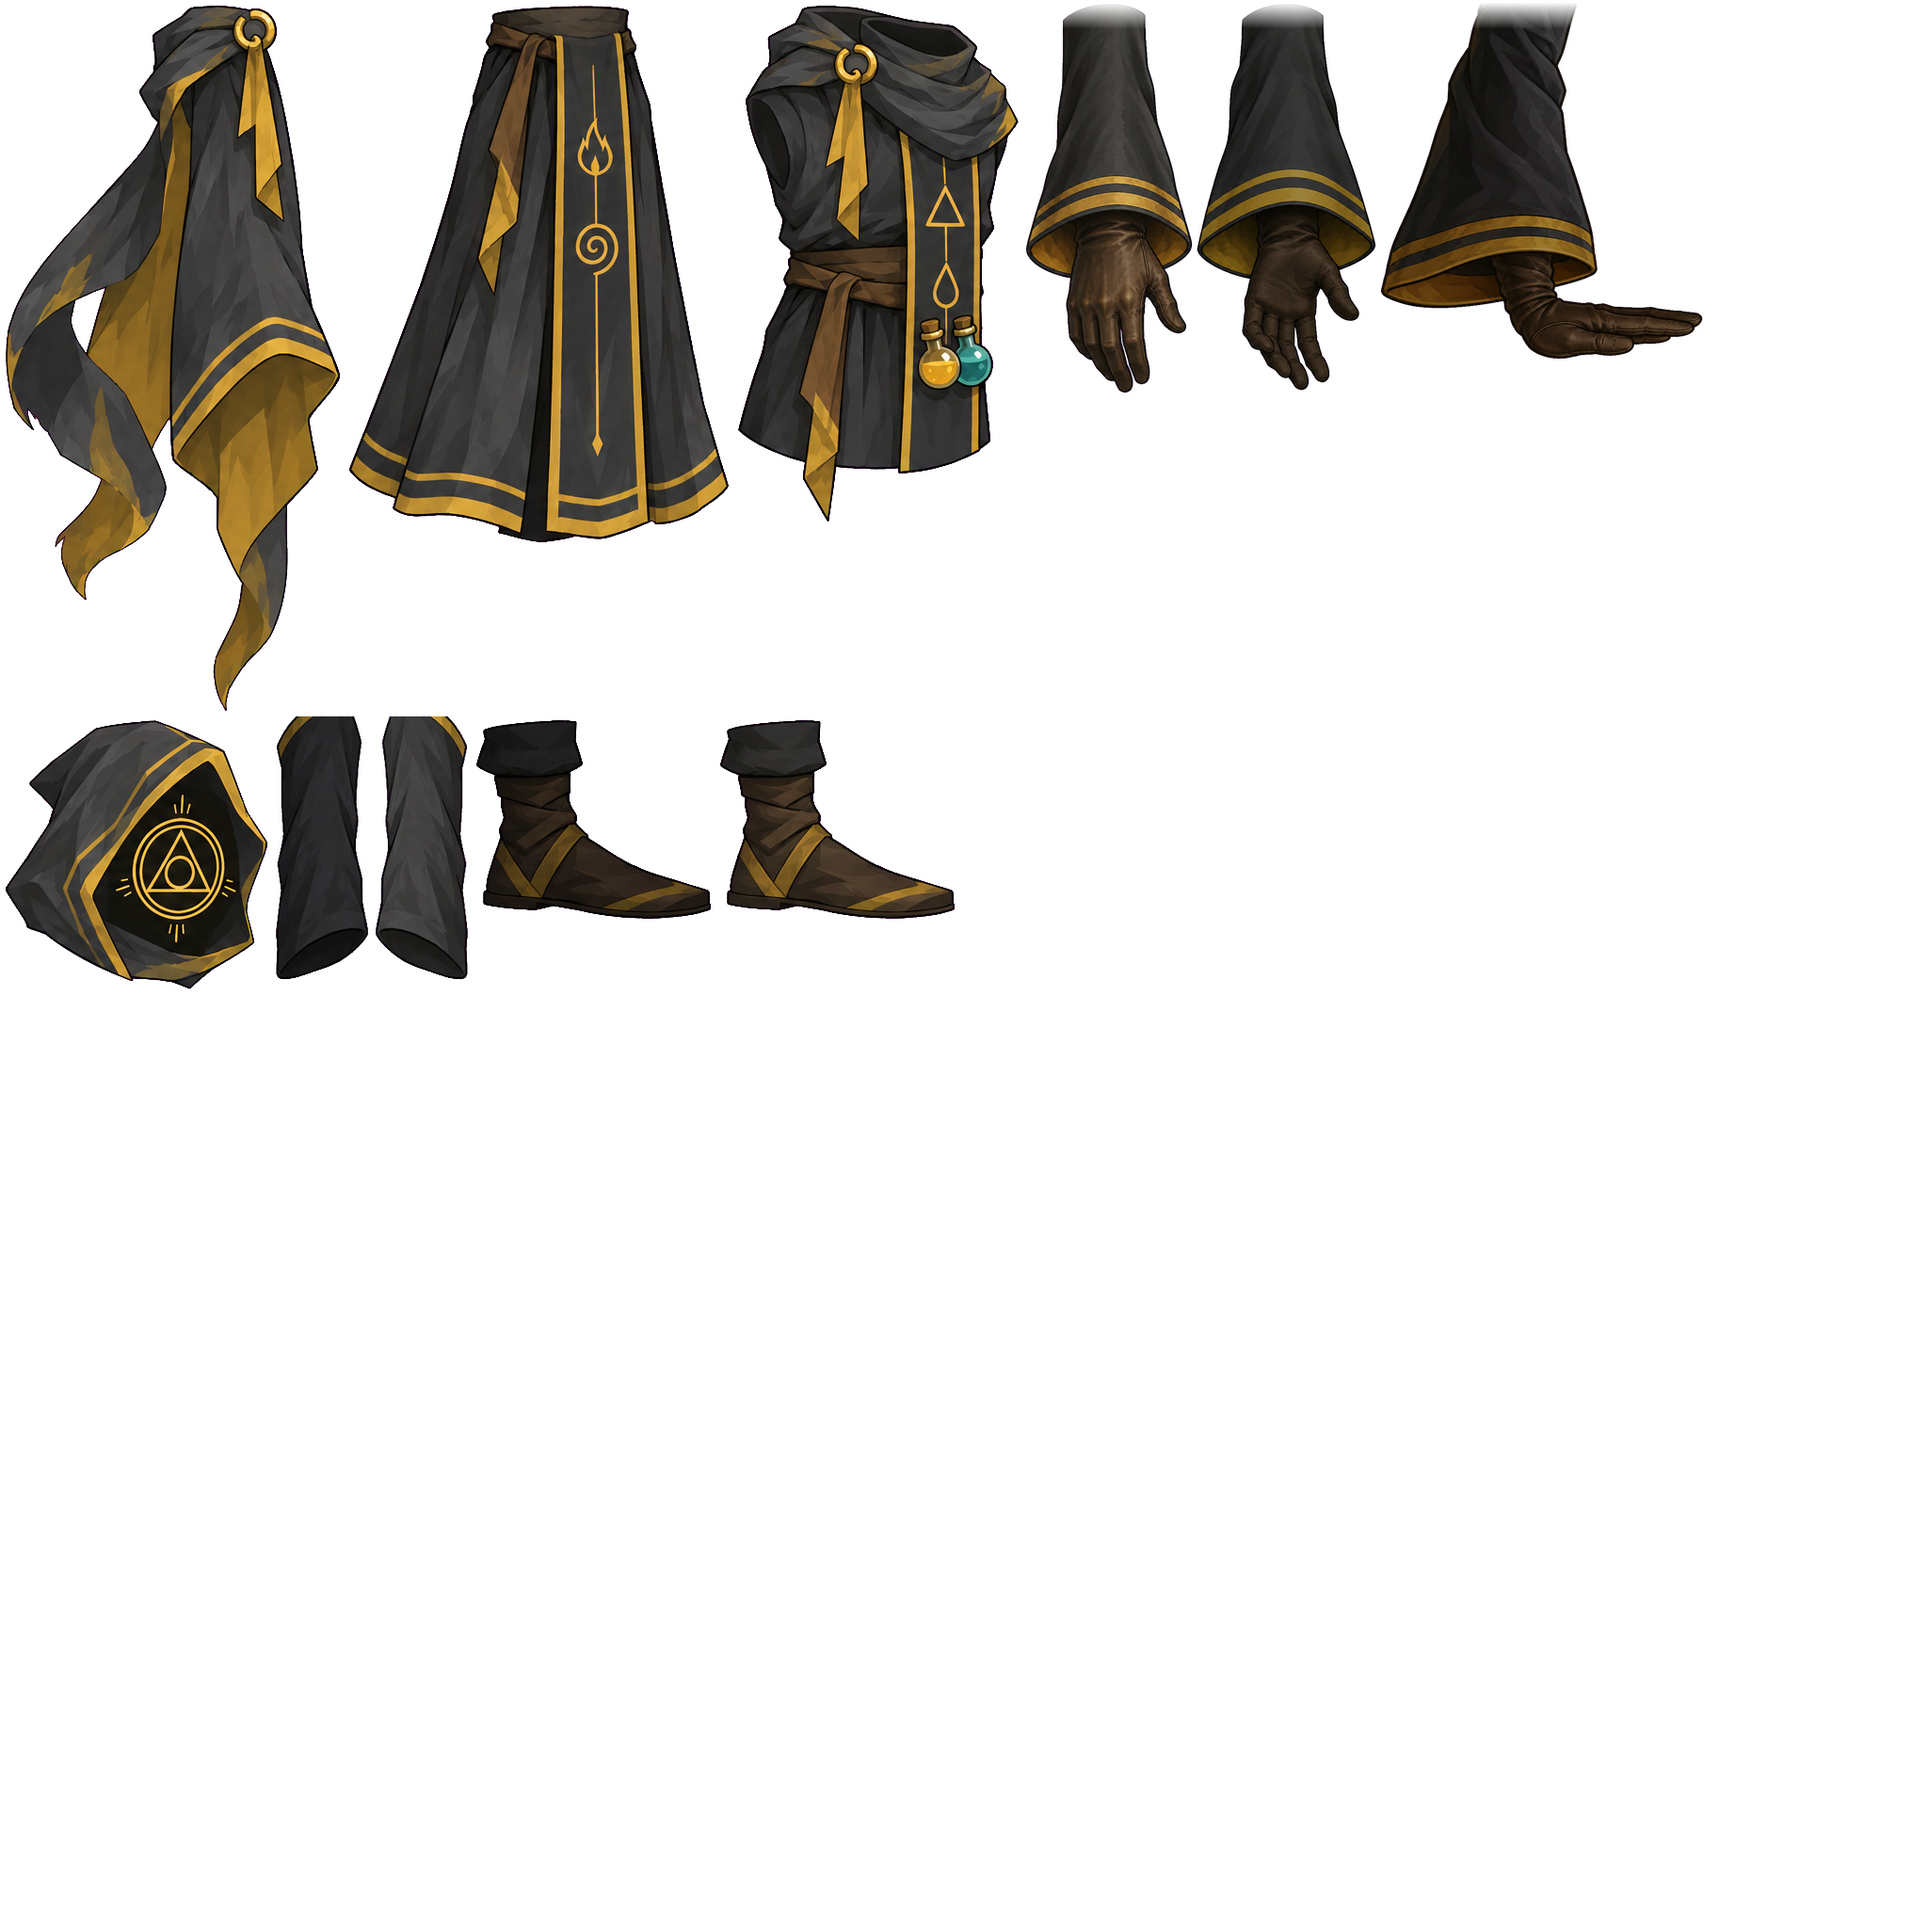
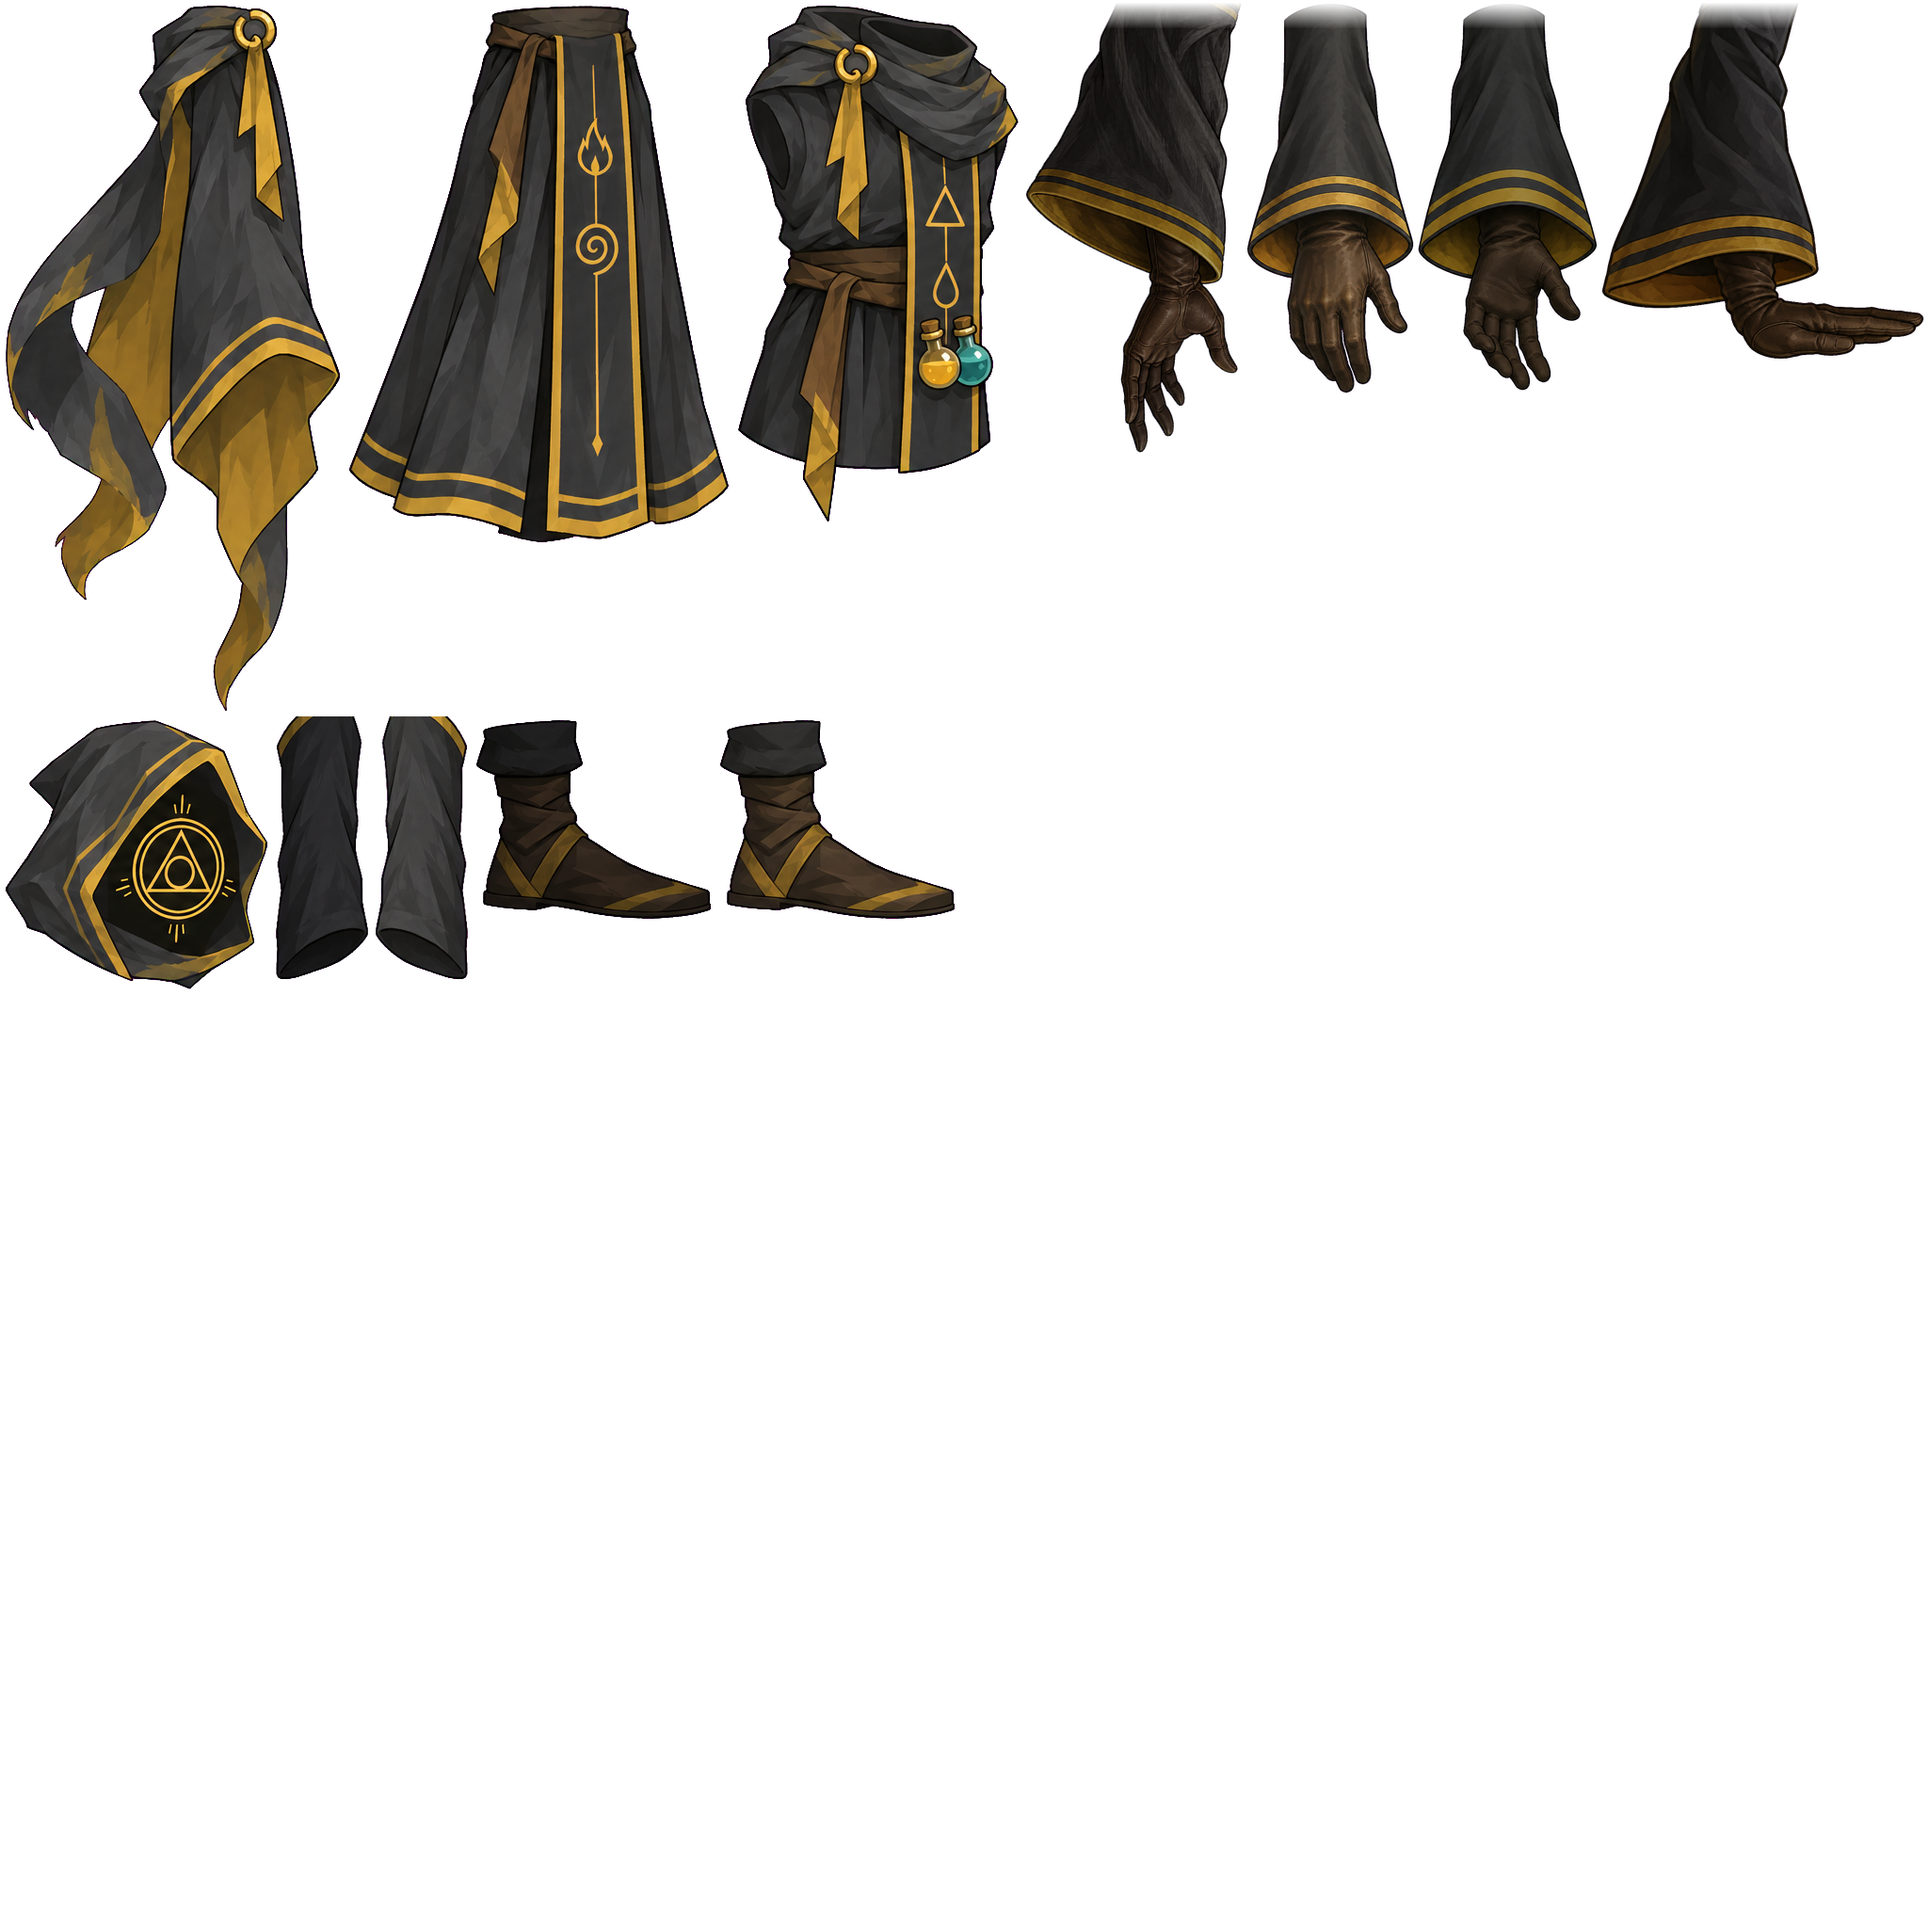
詠唱で手を掲げる専用の前腕に切り替え、錬金術師のスキル・パワーで詠唱のアニメーションを呼ぶ
- バニラはカードごとにTriggerAnim（スキル"Cast"、パワー"PowerUp"）を呼ぶが、このMODのカードは呼んでいなかった
- 素材ボックスのBeforeCardPlayedで、錬金術師のスキルは"Cast"、パワーは"PowerUp"を呼ぶ
- rig-parts.py --set raise：手のひらを上に向けて掲げた前腕。袖の向きを測って回し、詠唱中だけ切り替える

Changed region(s): [[0.5312, 0.0, 1.0, 0.25]]

diff --git a/scripts/rig-build.py b/scripts/rig-build.py
@@ -88,14 +88,17 @@ TRIM = {"UPPER_ARM": 22}
 WIDTH = {"UPPER_ARM": 0.8}
 # The forearms' top fades in over these many pixels, so their outline does not draw a line across the upper sleeve
 # at the elbow (it lies inside ELBOW_OVERLAP, over the upper sleeve; Codex, 2026-10-02).
-FEATHER = {"FOREARM_OPEN": 28, "FOREARM_GRIP": 28, "FOREARM_OPEN_L": 28, "FOREARM_PUSH_L": 28}
-# Extra pictures a slot can switch to during an animation: slot -> [(attachment, part, quarter turns clockwise)].
-# The palm push (2026-10-02, user) is drawn with the sleeve lying flat; one turn puts its elbow at the top like the
-# other forearms, so its fingers point up when the forearm points at the enemy. Its elbow end has a gold band: cut.
-ALTS = {"fore_f": [("fore_f_push", "FOREARM_PUSH_L", 1)]}
+FEATHER = {"FOREARM_OPEN": 28, "FOREARM_GRIP": 28, "FOREARM_OPEN_L": 28, "FOREARM_PUSH_L": 28, "FOREARM_RAISE_L": 28}
+# Extra pictures a slot can switch to during an animation: slot -> [(attachment, part, degrees turned clockwise)].
+# They are drawn as seen in the pose; the turn puts the elbow at the top like the other forearms. The palm push
+# (attack) lies flat; the raised hand (cast) rises at about 38 degrees (measured from the sleeve's pixels). Their
+# elbow ends have a gold band: cut. (2026-10-02, user)
+ALTS = {"fore_f": [("fore_f_push", "FOREARM_PUSH_L", 90), ("fore_f_raise", "FOREARM_RAISE_L", 128)]}
 TRIM["FOREARM_PUSH_L"] = 40
+TRIM["FOREARM_RAISE_L"] = 40
 # Which picture each slot shows, keyed in time per animation (the others start from the setup picture).
-SLOT_KEYS = {"attack": {"fore_f": [(0, "fore_f"), (0.22, "fore_f_push"), (0.7, "fore_f")]}}
+SLOT_KEYS = {"attack": {"fore_f": [(0, "fore_f"), (0.22, "fore_f_push"), (0.7, "fore_f")]},
+             "cast": {"fore_f": [(0, "fore_f"), (0.15, "fore_f_raise"), (0.85, "fore_f")]}}
 
 
 def key(t, **v):
@@ -280,10 +283,11 @@ def place(im, pivot, r, overlap):
     return jx + dx, jy + dy
 
 
-def prepare(part, flip, tint, quarter_turns=0):
+def prepare(part, flip, tint, degrees_cw=0):
     im = Image.open(PARTS / f"{part}.png").convert("RGBA")
-    if quarter_turns:
-        im = im.rotate(-90 * quarter_turns, expand=True)
+    if degrees_cw:
+        im = im.rotate(-degrees_cw, expand=True, resample=Image.BICUBIC)
+        im = im.crop(im.getbbox())
     if part in TRIM:
         im = im.crop((0, TRIM[part], im.width, im.height))
     if part in WIDTH:

diff --git a/scripts/rig-parts.py b/scripts/rig-parts.py
@@ -93,6 +93,17 @@ PUSH = [
      "edge of the cuff overlaps the wrist."),
 ]
 
+# 2026-10-02: the cast raises the open hand (user). Drawn as seen in the cast, forearm rising at 45 degrees;
+# rig-build.py turns it so the elbow is at the top and swaps it in during cast.
+RAISE = [
+    ("FOREARM_RAISE_L", "the same wide bell sleeve as the FOREARM parts in the attached sheets, rising DIAGONALLY at 45 "
+     "degrees: the elbow end at the LOWER LEFT, the open cuff at the UPPER RIGHT, gold trim stripes at the cuff, "
+     "mustard lining. Out of the INSIDE of the cuff comes a dark brown leather gloved LEFT hand raised towards the "
+     "sky, open, fingers spread, pointing up and to the right, the palm facing UP, seen from the thumb side (the "
+     "thumb towards the viewer). The wrist disappears into the dark inside of the sleeve, the front edge of the cuff "
+     "overlaps the wrist."),
+]
+
 BRIEF = (
     "Create a CHARACTER PARTS SHEET for a 2D skeletal (cut-out) animation rig of the Alchemist, a playable character "
     "in a Slay the Spire 2 mod. The first attached image is the Alchemist's key visual: match its design, colours "
@@ -116,6 +127,9 @@ tag = arg("--tag", "v1")
 if arg("--set") == "forearms":
     PARTS = FOREARMS
     REFS = REFS + [OUT / "parts-v1.png"]
+elif arg("--set") == "raise":
+    PARTS = RAISE
+    REFS = REFS + [OUT / "parts-v1.png", OUT / "parts-push-v1.png"]
 elif arg("--set") == "push":
     PARTS = PUSH
     REFS = REFS + [OUT / "parts-v1.png", OUT / "parts-left-v1.png"]

diff --git a/src/Alchemy/MaterialBox.cs b/src/Alchemy/MaterialBox.cs
@@ -100,10 +100,14 @@ public class MaterialBox : CustomRelicModel
     }
     // Cards only declare an element; PhaseTransitions decides whether that is a transition and what it does.
     // Replays of the same play (IsFirstInSeries false) do not move the phase again.
-    public override Task BeforeCardPlayed(CardPlay cardPlay)
+    public override async Task BeforeCardPlayed(CardPlay cardPlay)
     {
         if(Combat is not null && cardPlay.Player==Owner && cardPlay.IsFirstInSeries) Combat.TransitionsAtPlayStart=Combat.Phases.TransitionCount;
-        return Task.CompletedTask;
+        // The alchemist's skills and powers play the cast (the hand raised): base-game cards each call TriggerAnim
+        // in their OnPlay ("Cast" for skills, "PowerUp" for powers); ours never did, so the body stood still
+        // (2026-10-02). Attacks animate from their damage. Once per play, before its effects, as the base game does.
+        if(cardPlay.Player==Owner && cardPlay.IsFirstInSeries && cardPlay.Card is AlchemyCard { Type: CardType.Skill or CardType.Power } card)
+            await CreatureCmd.TriggerAnim(Owner.Creature, card.Type==CardType.Power ? "PowerUp" : "Cast", Owner.Character.CastAnimDelay);
     }
     public override async Task AfterCardPlayed(PlayerChoiceContext context, CardPlay cardPlay)
     {

diff --git a/docs/session-log.md b/docs/session-log.md
@@ -47,6 +47,10 @@
    - 奥の腕は体の横に下ろす（前腕の骨-85）。攻撃は手を胸元へ引いてから踏み込んで前へ突き出す、詠唱は前方斜め上へ掲げる。
    - Codex：手・杖についての指摘なし。残りは前からの「腕を伸ばすと肘が細くなる」だけ。スモーク405件PASS、反映済み（旧版`artifacts/backups/20261002-172332-137`）。確認用は`artifacts/rig-probe/nostaff1-all.png`。
 12. ユーザー「攻撃は押し出す形で」→ `rig-parts.py --set push`で、手首を立てて手のひらを前に向けた前腕（袖は横向き、親指の側から見た形）を生成（1回）→`FOREARM_PUSH_L`。`rig-build.py`に、1つのスロットに複数の絵を持たせて切り替える仕組み（`ALTS`・`SLOT_KEYS`、Spineの`slots`→`attachment`のキー）を足した。押し出しの絵は時計回りに90°回して肘を上にそろえ、肘側の金の帯を切り落とす。攻撃の0.22〜0.7秒だけ`fore_f_push`に切り替え、ほかのアニメーションは最初に元の絵へ戻す。上腕の下端の口が透けたので、押し出しの前腕は75px差し込む。Codexの指摘（肘の黒い楕円）を直して確認、スモーク405件PASS、反映済み（旧版`artifacts/backups/20261002-173847-295`）。
+13. ユーザー「詠唱も手を掲げる専用の絵に。詠唱はどの動きが対象？確認はGeminiでよい」→
+   - 調べると、バニラはカードごとに`OnPlay`で`CreatureCmd.TriggerAnim`を呼ぶ（スキルは"Cast"159枚、パワーは"PowerUp"104枚。防御カードは呼ばない）。攻撃はダメージ処理から自動で"Attack"。**このMODのカードは一度も呼んでいなかった**（スキル・パワーで棒立ち）。→《素材ボックス》の`BeforeCardPlayed`で、錬金術師のカードのスキルは"Cast"、パワーは"PowerUp"を呼ぶ（両方とも`cast`のアニメーション、待ちは`CastAnimDelay`）。
+   - `rig-parts.py --set raise`で、手のひらを上に向けて掲げた前腕（袖は斜め上、見えるとおりに描く）を生成（1回）→`FOREARM_RAISE_L`。袖の向きを画素から測って（約38°）時計回り128°回し、肘を上にそろえる（`ALTS`は角度指定に）。詠唱の0.15〜0.85秒だけ`fore_f_raise`に切り替え。
+   - Gemini（ask-agy）で確認。指摘のうち「手首が袖口の外」は原寸で見て誤り。スモーク405件PASS、反映済み（旧版`artifacts/backups/20261002-175137-071`）。確認用は`artifacts/rig-probe/raise1-cast.png`。
 
 ### 次にやること・返答待ち
 1. **ユーザーが実際の戦闘画面で確認**（大きさ・位置・動き・継ぎ目）。
